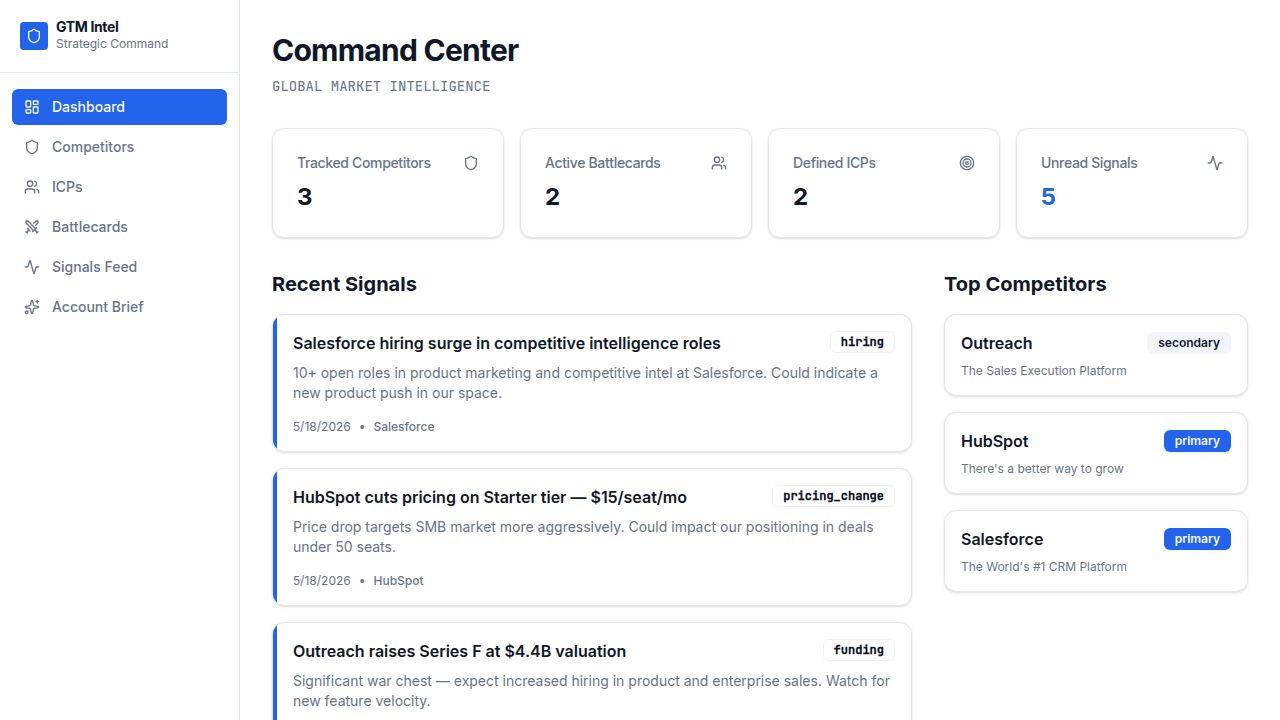
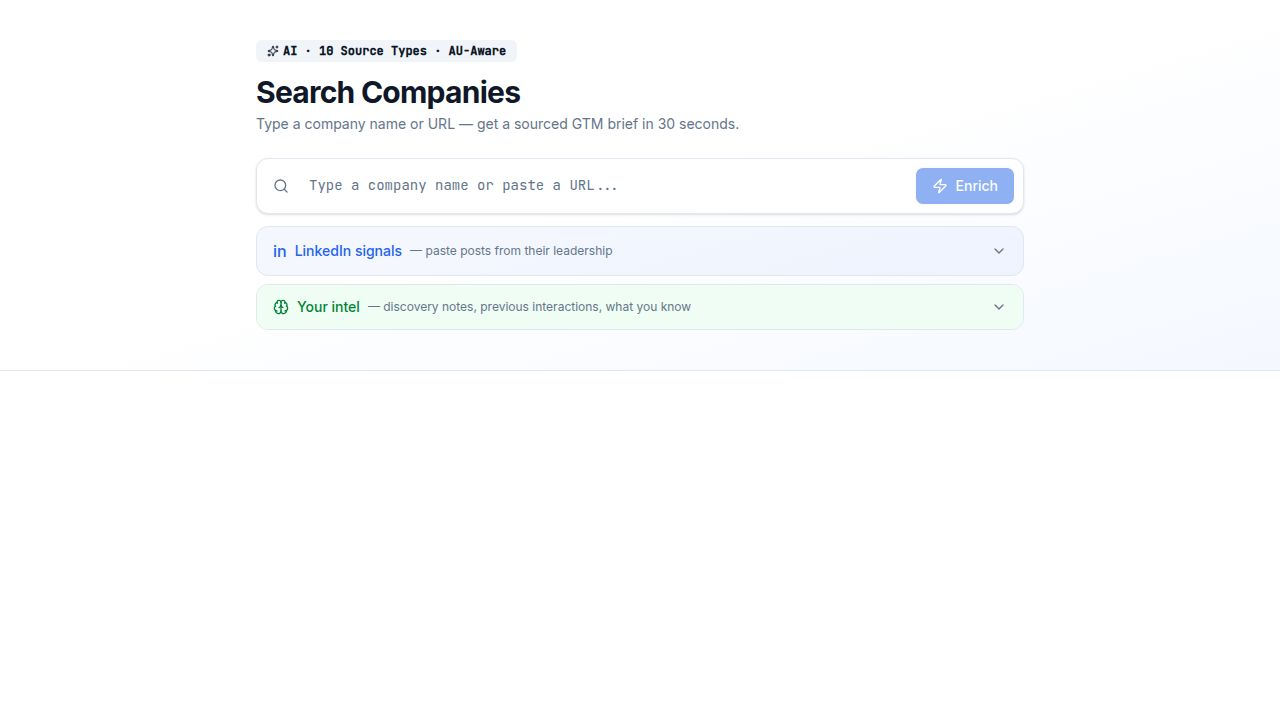
Add safety checks for potentially missing data in the account brief
Safely handle potentially undefined nested properties within the `brief` object in `App.tsx` by introducing optional chaining (`?.`) and nullish coalescing (`??`) to prevent runtime errors.

Replit-Commit-Author: Agent
Replit-Commit-Session-Id: 31cd9266-796e-467e-b168-6b4715117c47
Replit-Commit-Checkpoint-Type: full_checkpoint
Replit-Commit-Event-Id: 79438ff4-29b4-487e-8329-776f933b1660
Replit-Commit-Screenshot-Url: https://storage.googleapis.com/screenshot-production-us-central1/5adadadd-5fa9-44f5-9e5d-984304db72a3/31cd9266-796e-467e-b168-6b4715117c47/7lfCP1E
Replit-Helium-Checkpoint-Created: true

diff --git a/artifacts/gtm-intel/src/App.tsx b/artifacts/gtm-intel/src/App.tsx
@@ -123,8 +123,11 @@ function SourceChips({ sources, sectionId }: { sources?: BriefSource[]; sectionI
   const [open, setOpen] = useState(false);
   if (!sources || sources.length === 0) return null;
 
-  const verifiedCount = sources.filter(s => s.confidence === "verified").length;
-  const assumedCount = sources.filter(s => s.confidence === "assumed").length;
+  const safeSources = sources.filter(Boolean) as BriefSource[];
+  if (safeSources.length === 0) return null;
+
+  const verifiedCount = safeSources.filter(s => s.confidence === "verified").length;
+  const assumedCount = safeSources.filter(s => s.confidence === "assumed").length;
 
   return (
     <div className="mt-3">
@@ -133,24 +136,28 @@ function SourceChips({ sources, sectionId }: { sources?: BriefSource[]; sectionI
         className="flex items-center gap-1.5 text-xs text-muted-foreground hover:text-foreground transition-colors"
       >
         <div className="flex gap-1">
-          {sources.slice(0, 4).map((s, i) => {
+          {safeSources.slice(0, 4).map((s, i) => {
             const cfg = SOURCE_CONFIG[s.type] || SOURCE_CONFIG.web;
             return (
               <span key={i} style={{ background: cfg.bg, color: cfg.color, border: `0.5px solid ${cfg.border}` }}
                 className="text-[10px] font-medium px-2 py-0.5 rounded-full">{cfg.label}</span>
             );
           })}
-          {sources.length > 4 && <span className="text-[10px] font-medium px-2 py-0.5 rounded-full bg-muted text-muted-foreground">+{sources.length - 4}</span>}
+          {safeSources.length > 4 && (
+            <span className="text-[10px] font-medium px-2 py-0.5 rounded-full bg-muted text-muted-foreground">
+              +{safeSources.length - 4}
+            </span>
+          )}
         </div>
         <ChevronDown className={`w-3 h-3 transition-transform ${open ? "rotate-180" : ""}`} />
-        <span>{sources.length} source{sources.length !== 1 ? "s" : ""}</span>
+        <span>{safeSources.length} source{safeSources.length !== 1 ? "s" : ""}</span>
         {verifiedCount > 0 && <span className="text-green-600 font-medium">· {verifiedCount} verified</span>}
         {assumedCount > 0 && <span className="text-orange-500 font-medium">· {assumedCount} inferred</span>}
       </button>
 
       {open && (
         <div className="mt-2 bg-muted/30 rounded-lg border border-border overflow-hidden">
-          {sources.map((s, i) => {
+          {safeSources.map((s, i) => {
             const cfg = SOURCE_CONFIG[s.type] || SOURCE_CONFIG.web;
             return (
               <div key={i} className="flex items-start gap-3 px-3 py-2.5 border-b border-border last:border-0 hover:bg-muted/50 transition-colors">
@@ -485,7 +492,7 @@ export default function AccountBriefPage() {
 
   const copyAll = () => {
     if (!brief) return "";
-    return `GTM BRIEF: ${lastLabel}\n\nCOMPANY\n${brief.companySnapshot.size} | ${brief.companySnapshot.industry} | ${brief.companySnapshot.location} | ${brief.companySnapshot.fundingStage}\n\nICP FIT: ${brief.icpFitScore.score}/10\n${brief.icpFitScore.reason}\n\nTHEIR WORLD\n${brief.theirWorld.narrative}\n\nBUYING COMMITTEE\n${brief.buyingCommittee.map(p => `• ${p.title}: ${p.painPoint}`).join("\n")}\n\nRECENT TRIGGERS\n${brief.recentTriggers.items.map(t => `• ${t.event} (${t.recency})`).join("\n")}\n\nCOLD EMAIL\n${brief.coldEmail.fullEmail || brief.coldEmail.opener}`;
+    return `GTM BRIEF: ${lastLabel}\n\nCOMPANY\n${brief.companySnapshot.size} | ${brief.companySnapshot.industry} | ${brief.companySnapshot.location} | ${brief.companySnapshot.fundingStage}\n\nICP FIT: ${brief.icpFitScore.score}/10\n${brief.icpFitScore.reason}\n\nTHEIR WORLD\n${brief.theirWorld?.narrative ?? ""}\n\nBUYING COMMITTEE\n${brief.buyingCommittee.map(p => `• ${p.title}: ${p.painPoint}`).join("\n")}\n\nRECENT TRIGGERS\n${(brief.recentTriggers?.items ?? []).map(t => `• ${t.event} (${t.recency})`).join("\n")}\n\nCOLD EMAIL\n${brief.coldEmail?.fullEmail || brief.coldEmail?.opener || ""}`;
   };
 
   return (
@@ -574,7 +581,7 @@ export default function AccountBriefPage() {
                   {brief.theirWorld?.confidence && <ConfidenceBadge level={brief.theirWorld.confidence} />}
 
                 </CardTitle>
-                <CopyButton getText={() => brief.theirWorld.narrative} />
+                <CopyButton getText={() => brief.theirWorld?.narrative ?? ""} />
               </CardHeader>
               <CardContent>
                 <p className="text-sm text-foreground leading-relaxed">{brief.theirWorld?.narrative ?? ""}</p>
@@ -616,7 +623,7 @@ export default function AccountBriefPage() {
                   <Newspaper className="w-4 h-4 text-purple-500" />Recent Triggers & News
                   <Badge variant="outline" className="text-xs font-mono gap-1 hidden sm:flex"><Globe className="w-2.5 h-2.5" />live search</Badge>
                 </CardTitle>
-                <CopyButton getText={() => brief.recentTriggers.items.map(t => `• ${t.event} — ${t.significance} (${t.recency})`).join("\n")} />
+                <CopyButton getText={() => (brief.recentTriggers?.items ?? []).map(t => `• ${t.event} — ${t.significance} (${t.recency})`).join("\n")} />
               </CardHeader>
               <CardContent>
                 <div className="divide-y divide-border border border-border rounded-lg overflow-hidden">
@@ -631,7 +638,7 @@ export default function AccountBriefPage() {
                     </div>
                   ))}
                 </div>
-                <SourceChips sources={brief.recentTriggers.sources} sectionId="triggers" />
+                <SourceChips sources={brief.recentTriggers?.sources} sectionId="triggers" />
               </CardContent>
             </Card>
 
@@ -643,14 +650,14 @@ export default function AccountBriefPage() {
                   <Button variant="ghost" size="sm" onClick={() => setShowFullEmail(!showFullEmail)} className="text-xs h-7 px-2 text-muted-foreground">
                     {showFullEmail ? "Show opener" : "Show full email"}
                   </Button>
-                  <CopyButton getText={() => showFullEmail && brief.coldEmail.fullEmail ? brief.coldEmail.fullEmail : brief.coldEmail.opener} />
+                  <CopyButton getText={() => showFullEmail && brief.coldEmail?.fullEmail ? brief.coldEmail.fullEmail : brief.coldEmail?.opener ?? ""} />
                 </div>
               </CardHeader>
               <CardContent>
-                {showFullEmail && brief.coldEmail.fullEmail
+                {showFullEmail && brief.coldEmail?.fullEmail
                   ? <pre className="text-sm text-foreground leading-relaxed whitespace-pre-wrap font-sans">{brief.coldEmail.fullEmail}</pre>
-                  : <blockquote className="border-l-4 border-primary pl-4 italic text-sm text-foreground leading-relaxed">"{brief.coldEmail.opener}"</blockquote>}
-                <SourceChips sources={brief.coldEmail.sources} sectionId="email" />
+                  : <blockquote className="border-l-4 border-primary pl-4 italic text-sm text-foreground leading-relaxed">"{brief.coldEmail?.opener ?? ""}"</blockquote>}
+                <SourceChips sources={brief.coldEmail?.sources} sectionId="email" />
               </CardContent>
             </Card>
 